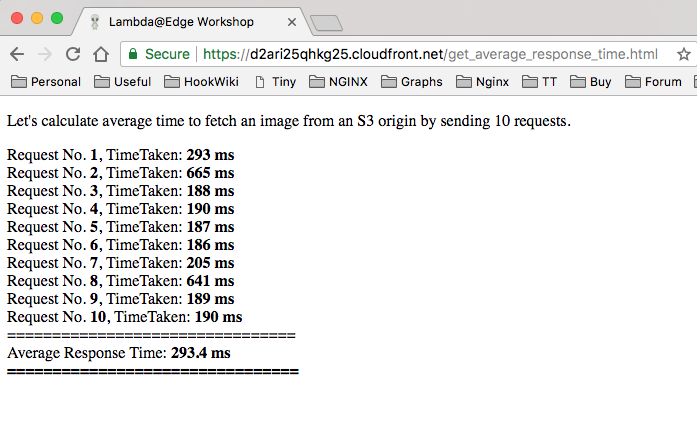
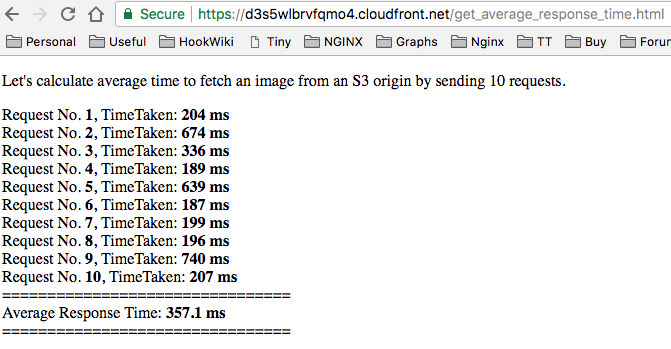
Update screenshots

Changed region(s): [[0.0, 0.0, 1.0, 0.9742]]

diff --git a/Workshop1/S3/get_average_home_page_load_time.html b/Workshop1/S3/get_average_home_page_load_time.html
@@ -28,14 +28,14 @@ $(document).ready(function(){
     await sleep(2200);
     for (var i = 0; i < 10; i++) {
       var startTime= new Date().getTime();
-      var sleepTime = i === 0 ? 3700 : 2200;
+      var sleepTime = i === 0 ? 4000 : 2200;
 
       $.get("/index.html").done(function(){
           timeTaken[i] = (new Date().getTime() - startTime);
           totalTime += timeTaken[i];
           $("#time_results").append("Request No. <b>" + (i+1) +"</b>, TimeTaken: <b>" + timeTaken[i] + " ms</b><br>");
       });
-        
+
       await sleep(sleepTime);
     }
     $("#time_results").append("================================<br>Average Time To Load Page: <b>" + totalTime/timeTaken.length + " ms</b><br>================================<br>");

diff --git a/Workshop1/S3/get_average_response_time.html b/Workshop1/S3/get_average_response_time.html
@@ -27,7 +27,7 @@ $(document).ready(function(){
   async function printTimeTaken() {
     for (var i = 0; i < 10; i++) {
       var startTime= new Date().getTime();
-      var sleepTime = i === 0 ? 2500 : 1200;
+      var sleepTime = i === 0 ? 3200 : 1200;
 
       $.get("/card/960w/da8398f4.jpg").done(function(){
           timeTaken[i] = (new Date().getTime() - startTime);

diff --git a/Workshop1/Lab6_DynamicOriginSelection/ws-lambda-at-edge-select-nearer-origin.js b/Workshop1/Lab6_DynamicOriginSelection/ws-lambda-at-edge-select-nearer-origin.js
@@ -40,7 +40,7 @@ function isViewerBelongsToNorthAmerica(request) {
     return isViewerBelongsToNorthAmerica;
 }
 
-function updateS3Origin() {
+function updateS3Origin(request) {
     const bucketName = regionToBucketMapping[region];
     const domainName = `${bucketName}.s3.${region}.amazonaws.com`;
 
